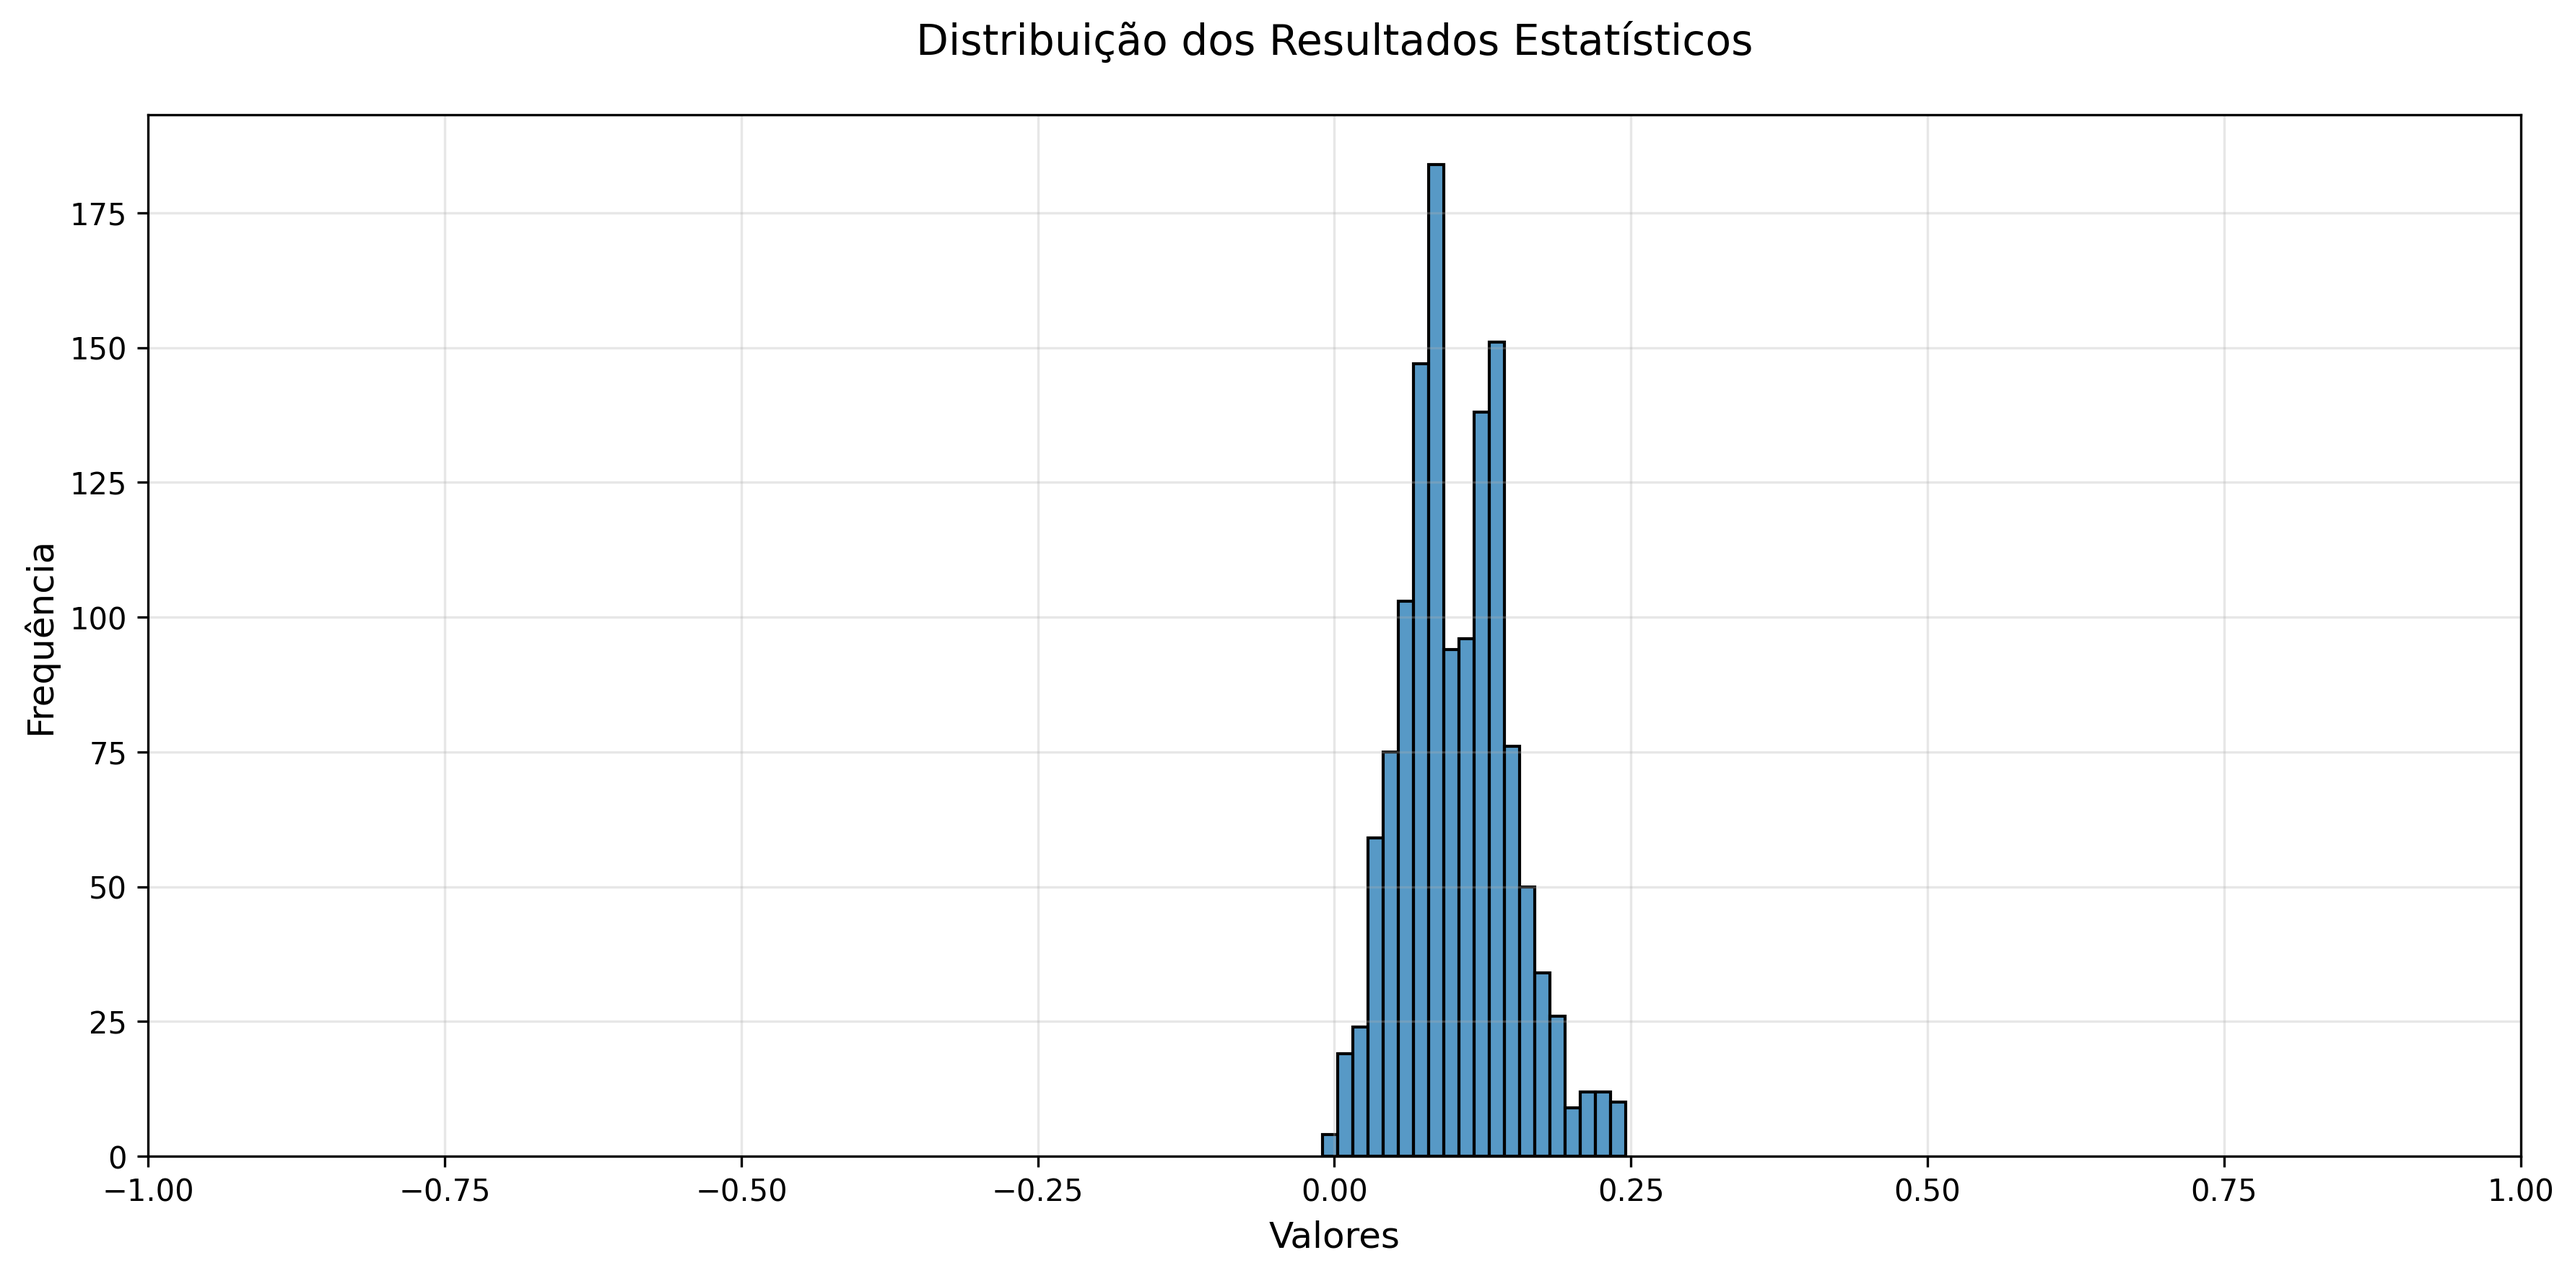
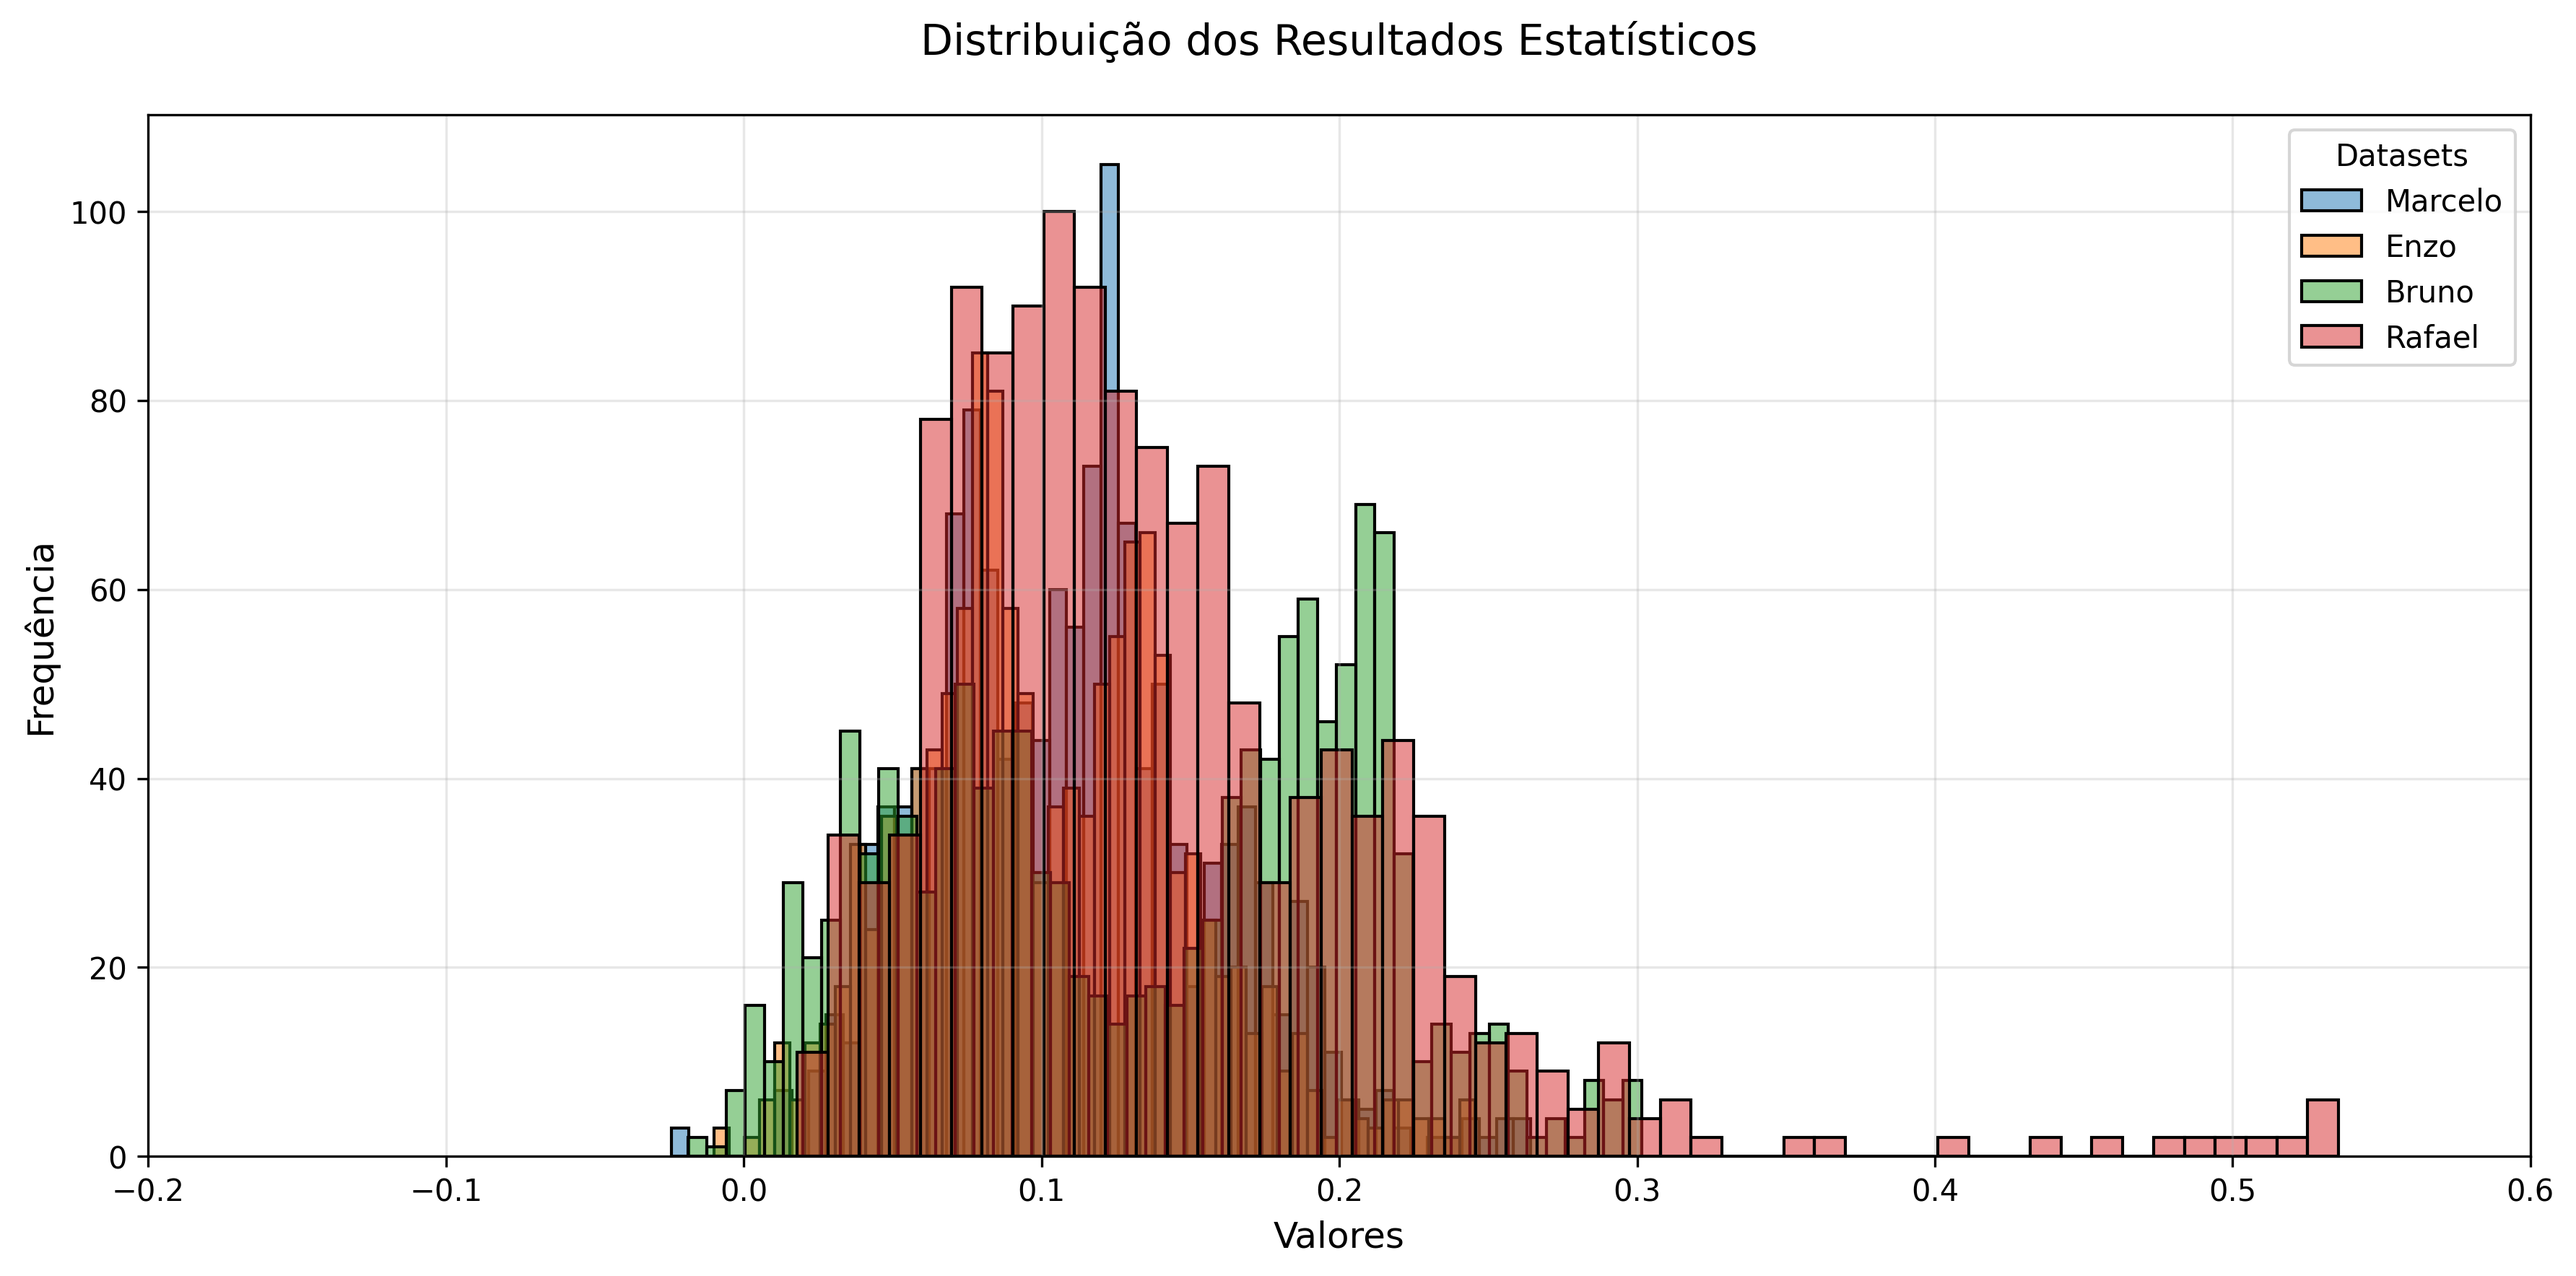
ok

diff --git a/teste_estatistico/graficos.py b/teste_estatistico/graficos.py
@@ -1,23 +1,33 @@
 import matplotlib.pyplot as plt
 import seaborn as sns
 
-# Read the data from the file
-# with open('transformation_results.txt', 'r') as file:
-#     data = [float(line.strip()) for line in file if line.strip()]
+# Read the data from the files
+with open('/Users/marcelomarchetto/Desktop/viscomproj/teste_estatistico/transformation_results/transformation_results_marcelo_raposa.txt', 'r') as file:
+    data = [float(line.strip()) for line in file if line.strip()]
 
-# Read the data from the file
-with open('transformation_results2.txt', 'r') as file:
+with open('/Users/marcelomarchetto/Desktop/viscomproj/teste_estatistico/transformation_results/transformation_results_enzo_raposa.txt', 'r') as file:
     data2 = [float(line.strip()) for line in file if line.strip()]
+
+with open('/Users/marcelomarchetto/Desktop/viscomproj/teste_estatistico/transformation_results/transformation_results_bruno_raposa.txt', 'r') as file:
+    data3 = [float(line.strip()) for line in file if line.strip()]
+
+with open('/Users/marcelomarchetto/Desktop/viscomproj/teste_estatistico/transformation_results/transformation_results_rafael_raposa.txt', 'r') as file:
+    data4 = [float(line.strip()) for line in file if line.strip()]
 
 # Create figure with specific size
 plt.figure(figsize=(12, 6))
 
-# Create the distribution plot
-# sns.histplot(data=data, bins=20)
-sns.histplot(data=data2, bins=20)
+# Create the distribution plots with distinct labels and slight transparency for overlap visibility
+sns.histplot(data=data, bins=50, label='Marcelo', alpha=0.5)
+sns.histplot(data=data2, bins=50, label='Enzo', alpha=0.5)
+sns.histplot(data=data3, bins=50, label='Bruno', alpha=0.5)
+sns.histplot(data=data4, bins=50, label='Rafael', alpha=0.5)
 
-# Set x-axis limits from 0 to 1
-plt.xlim(-1, 1)
+# Set x-axis limits
+plt.xlim(-0.2, 0.6)
+
+# Add legend
+plt.legend(title='Datasets')
 
 # Customize the plot
 plt.title('Distribuição dos Resultados Estatísticos', fontsize=14, pad=20)

diff --git a/teste_estatistico/graficos_all_images.py b/teste_estatistico/graficos_all_images.py
@@ -24,6 +24,13 @@ mack_files = [
     os.path.join(RESULTS_DIR, 'transformation_results_bruno_mack.txt')
 ]
 
+raposa_files = [
+    os.path.join(RESULTS_DIR, 'transformation_results_enzo_raposa.txt'),
+    os.path.join(RESULTS_DIR, 'transformation_results_marcelo_raposa.txt'),
+    os.path.join(RESULTS_DIR, 'transformation_results_rafael_raposa.txt'),
+    os.path.join(RESULTS_DIR, 'transformation_results_bruno_raposa.txt')
+]
+
 def print_statistics(data_dict, title_prefix):
     """Print detailed statistics for each player's data"""
     print(f"\n{'='*80}")
@@ -135,6 +142,7 @@ def main():
     # Analyze both star and mack data
     analyze_data(star_files, "Estrela")
     analyze_data(mack_files, "Mack")
+    analyze_data(raposa_files, "Raposa")
     
     print("\nAnálise estatística concluída!")
 
